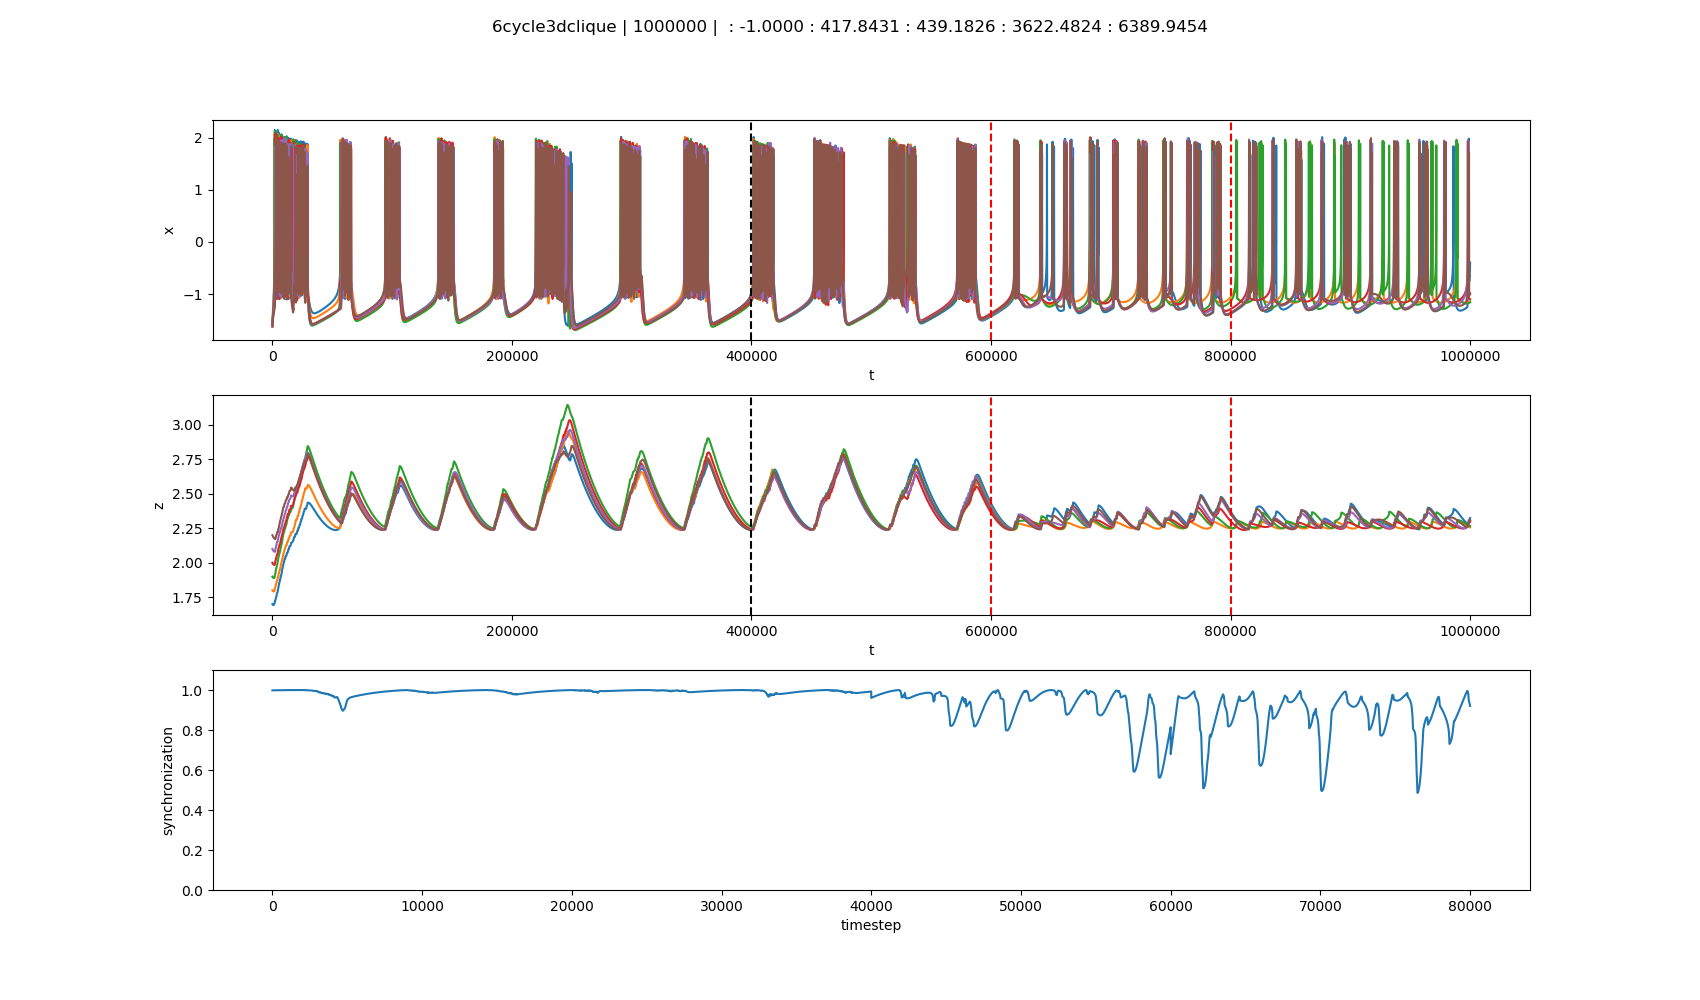
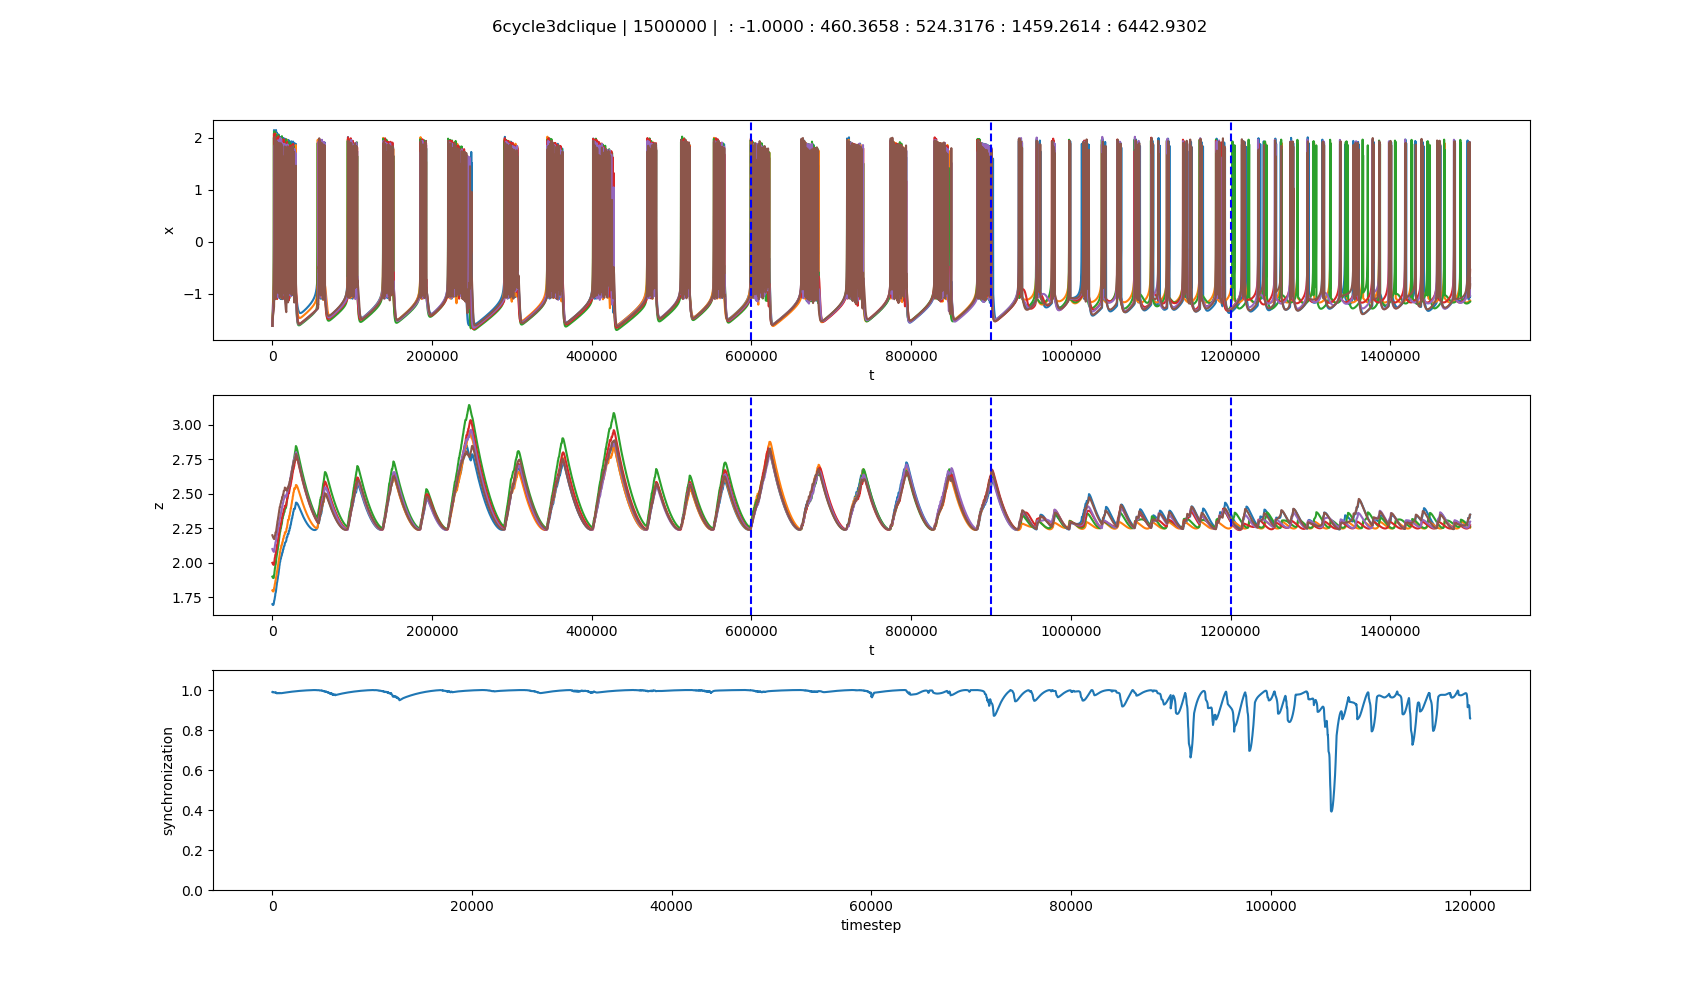
more successful simulations yay

diff --git a/code/dynamics/plot.py b/code/dynamics/plot.py
@@ -36,7 +36,7 @@ def normalizetan(x):
 sim = sys.argv[1]
 
 X = pickle.load(open("storeddata/" + sim + "-X.p","rb"))
-Y = pickle.load(open("storeddata/" + sim + "-Y.p","rb"))
+# Y = pickle.load(open("storeddata/" + sim + "-Y.p","rb"))
 Z = pickle.load(open("storeddata/" + sim + "-Z.p","rb"))
 
 duration = len(X[0])
@@ -57,8 +57,10 @@ homo = pickle.load(open("storeddata/homo.p","rb"))
 for i in range(2,duration/singlerun):
     if(homo[i-2] == False):
         plt.axvline(x=(i)*singlerun, color='k', linestyle='--')
-    if(homo[i-2] == True):
+    elif(homo[i-2] == True):
         plt.axvline(x=(i)*singlerun, color='r', linestyle='--')
+    else:
+        plt.axvline(x=(i)*singlerun, color='b', linestyle='--')
 
 simulation.add_subplot(3,1,2)
 for i in range(0,N):
@@ -69,8 +71,11 @@ for i in range(0,N):
 for i in range(2,duration/singlerun):
     if(homo[i-2] == False):
         plt.axvline(x=(i)*singlerun, color='k', linestyle='--')
-    if(homo[i-2] == True):
+    elif(homo[i-2] == True):
         plt.axvline(x=(i)*singlerun, color='r', linestyle='--')
+    else:
+        plt.axvline(x=(i)*singlerun, color='b', linestyle='--')
+
 
 
 sys.stdout.write('\x1b[1A')
@@ -105,7 +110,7 @@ for section in range(len(sections)):
 runningsync = []
 phivals = [-1]
 avgsync = [-1]
-for section in range(1,len(sections)):
+for section in range(0,len(sections)):
     scaledM = []
 
     for i in range(0,N):
@@ -121,6 +126,7 @@ for section in range(1,len(sections)):
         for j in range(0,N):
              phasic[i] += cmath.exp(complex(scaledM[j][i],0)*complex(0,1))
 
+        # phasic[i] = normalizetan(abs(phasic[i])/N)
         phasic[i] = abs(phasic[i])/N
 
     runningsync = np.append(runningsync,phasic)
@@ -167,6 +173,8 @@ plt.xlabel("timestep")
 
 ablation_list = pickle.load(open("storeddata/ablation_list.p","rb"))
 
+# print(len(X[0]),len(runningsync))
+
 plt.show(block=False)
 
 savesim = raw_input("save simulation? ")
@@ -181,8 +189,8 @@ plt.close()
 print(phivals)
 print(avgsync)
 
-phivals = phivals[1:]
-avgsync = avgsync[1:]
+phivals = phivals[2:]
+avgsync = avgsync[2:]
 
 np.savetxt("../simulation_files/ablation/R2plots/" + sim + "_syncvals" + ".csv", (phivals,avgsync), delimiter=",", fmt='%s')
 

diff --git a/code/dynamics/ablate.py b/code/dynamics/ablate.py
@@ -109,7 +109,7 @@ else:
 
 N = N_from_Matrix(matrix)                   # number of neurons in network
 N_syn = count_connections(matrix)           # number of synapses
-duration = 2000*ms                          # how long simulations runs
+duration = 3000*ms                          # how long simulations runs
 
 tau_param = {'tau': 1*ms}
 

diff --git a/code/dynamics/thewholedeal.py b/code/dynamics/thewholedeal.py
@@ -99,6 +99,7 @@ numabl = sys.argv[2]
 if(len(numabl) > 2):
     ablation_list = sys.argv[2]
     ablation_list = ablation_list.split(",")
+    pickle.dump(ablation_list, open("storeddata/homo.p","wb"))
     print(ablation_list)
 else:
     SYNS = getsimps(network)[0]
